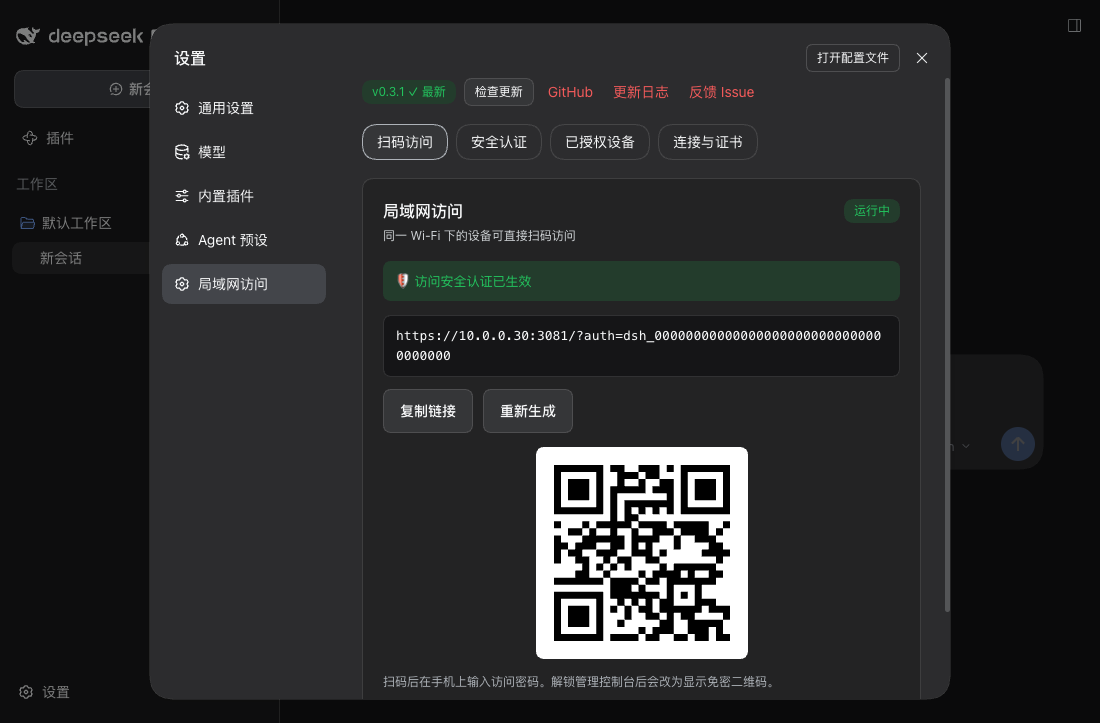
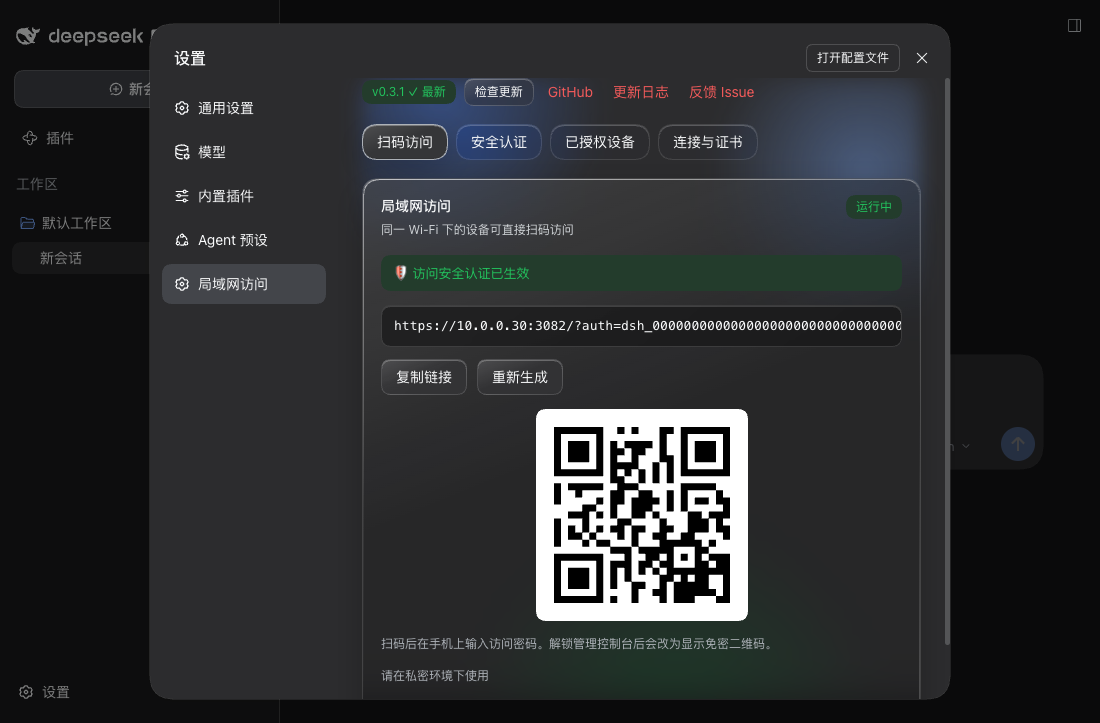
docs: 刷新 README 截图以匹配液体玻璃与新尺寸
assets/ 下的设置页截图按当前代码重拍（液体玻璃 + 官方尺度），替换仍是平面样式的旧图。

- 取自零配置临时实例（dataDir/listenHost 未配置；仅固定 listenPort，避免把
  "3081 被占用" 的测试环境告警拍进图里）
- 免密链接 token 为占位值 dsh_0000…，仓库不含真实凭据
- mobile.png 重拍后与旧图逐字节相同（官方 UI 未变），本次无变更

Changed region(s): [[0.3091, 0.0913, 0.8655, 0.9737], [0.8345, 0.852, 0.8655, 0.8824], [0.68, 0.9433, 0.7109, 0.9737]]

diff --git a/CHANGELOG.md b/CHANGELOG.md
@@ -72,6 +72,14 @@
 
 > 说明：macOS 的覆盖式滚动条默认只在滚动时出现；框内拖动会选中并自动横向滚动，另有 `title` 悬停提示，因此不额外加渐隐遮罩（渐隐在滚到末尾时反而像被截断）。
 
+### 文档 — 刷新 5 张 README 截图（2026-09-26）
+
+`assets/` 下的设置页截图按**当前代码**（液体玻璃 + 官方尺度）重拍，替换此前仍是平面样式的旧图；`screenshots.json` 声明的 5 张路径不变。
+
+- 截图取自**零配置**的临时 DSH 实例（`dataDir`/`listenHost` 均未配置；仅固定了 `listenPort` 以免把"3081 被占用"的测试环境告警拍进去）；
+- 图中免密链接的 token 是**占位值**（`dsh_0000…`），仓库内不含任何真实凭据；
+- `mobile.png` 重拍后与旧图逐字节相同（官方 UI 在 390px 下未变），因此本次未产生变更。
+
 ### 修复 — 安装后设置页显示 `settings request failed: 404`，插件根本没启动
 
 **症状**：`dsh plugin --profile web add dsh-lan-guard@0.3.1` 装好并重启 dsh 后，**设置 → 局域网访问** 只显示 `settings request failed: 404`。
